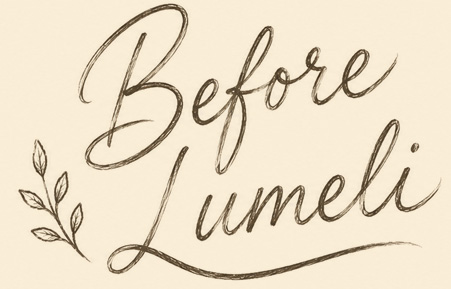
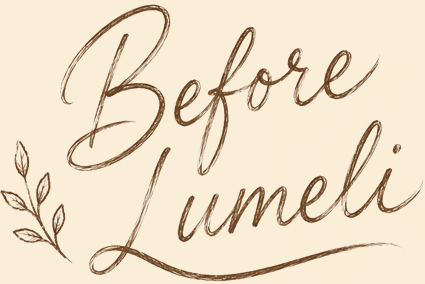
fix: before/after labels beside the art with breathing room, composite centered

Changed region(s): [[0.0, 0.0, 0.9482, 1.0], [0.3976, 0.3944, 1.0, 0.8732], [0.3059, 0.3944, 0.3365, 0.4225]]

diff --git a/styles.css b/styles.css
@@ -260,18 +260,24 @@ section { padding: 96px 0; }
   margin-bottom: 96px;
 }
 .ba-block:last-child { margin-bottom: 0; }
-/* the script label lives INSIDE the artwork's empty top-left corner,
-   as drawn in the original design — the scene centers as one piece */
+/* the script label sits in open space to the LEFT of the artwork with only
+   a whisper of overlap; the composite (label + art) is what gets centered,
+   so the pair shifts right by half the label's overhang */
 .ba-scene {
   position: relative;
   width: min(760px, 100%);
+  transform: translateX(min(115px, 8vw));
 }
 .ba-art { display: block; width: 100%; height: auto; }
 .ba-label {
-  position: absolute; top: 3.5%; left: 3%;
-  width: 26%; height: auto; /* scales with the scene, like part of the drawing */
+  position: absolute; top: 0; left: max(-230px, -16vw);
+  width: clamp(150px, 16vw, 250px); height: auto;
   z-index: 1;
   transition-delay: 0.35s; /* the script label breathes in after the scene */
+}
+@media (max-width: 900px) {
+  .ba-scene { transform: none; }
+  .ba-label { position: static; margin: 0 0 16px; display: block; }
 }
 
 /* ── Showcase: intro copy left, Signals mockup right ── */
